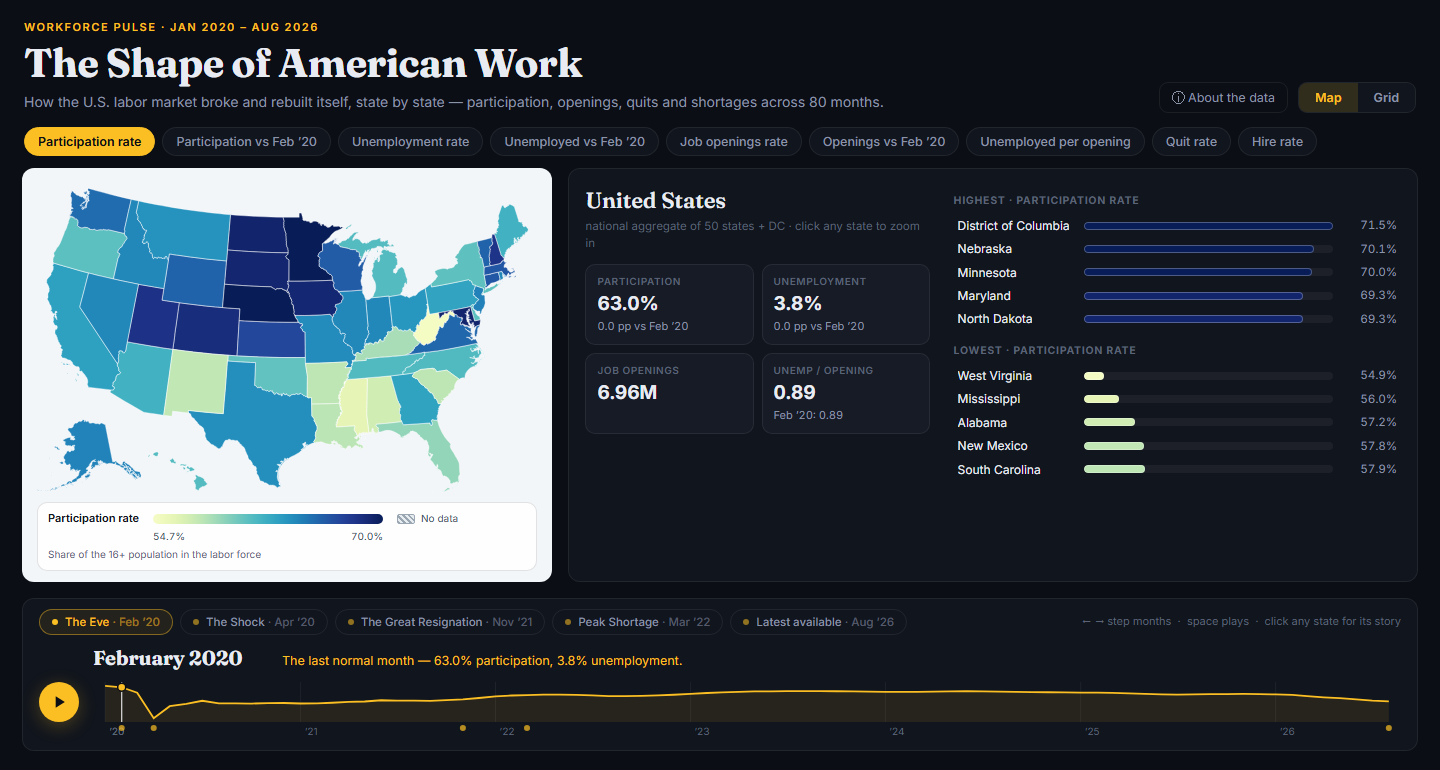
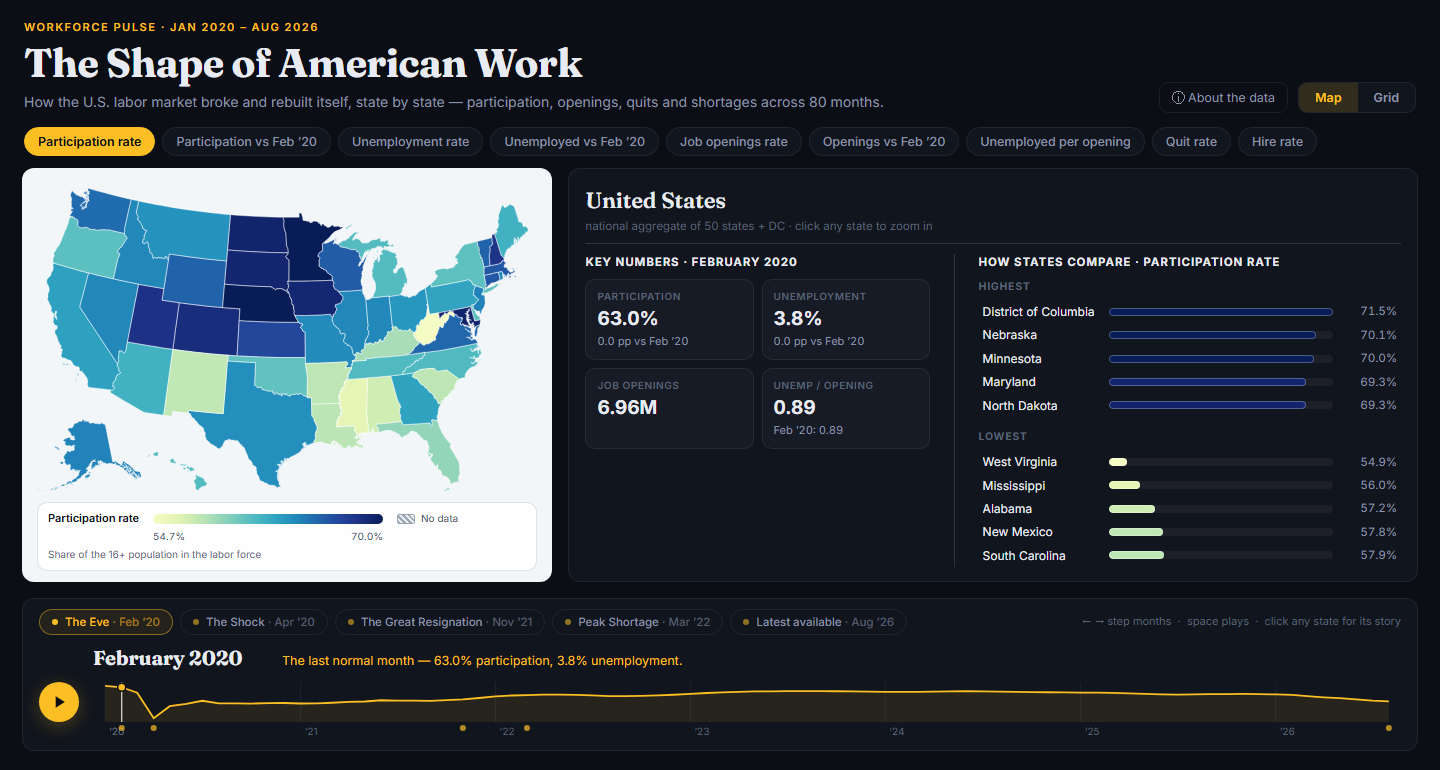
Title and divide the side panel's key numbers and charts
The stat cards and the lists or charts beside them ran together in one
dark panel. Now:

- The place name and its subtitle (and a state's rank) span the panel
  above a divider line.
- The stat cards sit under "Key numbers" with the month shown.
- The ranking bars sit under "How states compare" with the metric, split
  into Highest and Lowest; a state's charts sit under "Trends" with the
  date range.
- A vertical divider separates the two areas on wide screens; stacked
  layouts use a horizontal one.

Spacing is tightened so the panel stays within the map's height at 1440px
and wider, keeping the page within the window.

Changed region(s): [[0.6562, 0.2494, 0.9688, 0.7481], [0.4062, 0.3117, 0.625, 0.561]]

diff --git a/js/components/panel.js b/js/components/panel.js
@@ -4,7 +4,7 @@
    The DOM skeleton is rebuilt only when the selection changes; everything
    else (numbers, bars, cursors) updates in place. */
 
-import { FMT, fin, metricById } from '../config.js';
+import { FMT, fin, fmtMonth, fmtMonYr, metricById } from '../config.js';
 
 /* sparkline catalogue (state mode) */
 const SPARKS = [
@@ -35,36 +35,46 @@ export function createPanel(data, store, actions) {
       ${statCard('open', 'Job openings')}${statCard('awr', 'Unemp / opening')}
     </div>`;
 
+  const keyNumbers = `
+    <section class="panel-main">
+      <h3 class="panel-title" id="keyTitle"></h3>
+      ${statGrid}
+    </section>`;
+
   function build(s) {
     sparks = [];
-    /* panel-main holds the summary, panel-side the lists or charts; wide layouts
-       show them side by side, narrow ones stack them. */
+    /* panel-head names the place across the full width; below it, panel-main holds
+       the key numbers and panel-side the lists or charts, each under its own title.
+       Wide layouts show the two side by side, narrow ones stack them. */
     if (!s.selected) {
       panel.html(`
-        <div class="panel-main">
+        <div class="panel-head">
           <h2>United States</h2>
           <div class="panel-sub">national aggregate of 50 states + DC · click any state to zoom in</div>
-          ${statGrid}
         </div>
-        <div class="panel-side rk-section">
-          <div class="rk-title" id="rk-hi-title"></div><div id="rk-hi"></div>
-          <div class="rk-title" id="rk-lo-title"></div><div id="rk-lo"></div>
-        </div>`);
+        ${keyNumbers}
+        <section class="panel-side rk-section">
+          <h3 class="panel-title" id="rk-title"></h3>
+          <div class="rk-title">Highest</div><div id="rk-hi"></div>
+          <div class="rk-title">Lowest</div><div id="rk-lo"></div>
+        </section>`);
       return;
     }
 
     const st = data.byState.get(s.selected);
+    const [first, last] = [data.periods[0], data.periods[data.N - 1]];
     panel.html(`
-      <div class="panel-main">
+      <div class="panel-head">
         <h2>${st.name}<button class="close-x" id="closeSel" title="Back to national view">✕</button></h2>
         <div class="panel-sub">vs the national picture · click charts to scrub time</div>
         <div class="rank-chip" id="rankChip"></div>
-        ${statGrid}
       </div>
-      <div class="panel-side">
+      ${keyNumbers}
+      <section class="panel-side">
+        <h3 class="panel-title">Trends · ${fmtMonYr(first)} – ${fmtMonYr(last)}</h3>
         <div class="spark-legend"><i style="background:#67e8f9"></i>${st.abbr}<i style="background:#8b93a7"></i>US</div>
         <div id="sparks"></div>
-      </div>`);
+      </section>`);
     d3.select('#closeSel').on('click', () => actions.select(null));
     buildSparks(st);
   }
@@ -131,6 +141,7 @@ export function createPanel(data, store, actions) {
     const i = s.idx;
     const src = s.selected ? data.byState.get(s.selected).vals : data.national;
 
+    document.getElementById('keyTitle').textContent = `Key numbers · ${fmtMonth(data.periods[i])}`;
     setStat('lfpr', FMT.pct1(src.lfpr[i]), delta(src.lfpr, i, FMT.pp, false));
     setStat('ur', FMT.pct1(src.ur[i]), delta(src.ur, i, FMT.pp, true));
     setStat('open', FMT.k(src.open[i]),
@@ -187,8 +198,7 @@ export function createPanel(data, store, actions) {
   function renderRankLists(s) {
     const m = metricById(s.metricId);
     const list = ranked(m, s.idx);
-    d3.select('#rk-hi-title').text(`Highest · ${m.label}`);
-    d3.select('#rk-lo-title').text(`Lowest · ${m.label}`);
+    d3.select('#rk-title').text(`How states compare · ${m.label}`);
 
     const ext = list.length ? [list[list.length - 1].v, list[0].v] : [0, 1];
     const w = d3.scaleLinear().domain([Math.min(...ext), Math.max(...ext)]).range([8, 100]);

diff --git a/styles.css b/styles.css
@@ -4,6 +4,7 @@
   --bg2: #11151d;
   --bg3: #161b26;
   --line: rgba(255, 255, 255, 0.07);
+  --divider: rgba(255, 255, 255, 0.14);
   --text: #e8ebf1;
   --muted: #8b93a7;
   --faint: #5b6377;
@@ -242,6 +243,21 @@ main {
 #panel .close-x { color: var(--faint); font-size: 15px; padding: 2px 7px; border-radius: 7px; }
 #panel .close-x:hover { color: var(--text); background: var(--bg3); }
 
+/* the place name spans the panel; the key numbers and the lists or charts below it
+   each get a title, and a divider keeps the two areas apart */
+#panel .panel-head { padding-bottom: 8px; margin-bottom: 10px; border-bottom: 1px solid var(--divider); }
+#panel .panel-head .panel-sub { margin-bottom: 0; }
+#panel .panel-head .rank-chip { margin: 8px 0 0; }
+.panel-title {
+  font-size: 11.5px;
+  font-weight: 700;
+  letter-spacing: 0.08em;
+  text-transform: uppercase;
+  color: var(--text);
+  margin: 0 0 8px;
+}
+.panel-side { border-top: 1px solid var(--divider); margin-top: 14px; padding-top: 12px; }
+
 .rank-chip {
   display: inline-block;
   font-size: 11px;
@@ -294,6 +310,7 @@ main {
 /* national mode lists */
 .rk-section { margin-top: 4px; }
 .rk-title { font-size: 10.5px; font-weight: 700; letter-spacing: 0.07em; text-transform: uppercase; color: var(--faint); margin: 12px 0 6px; }
+.panel-title + .rk-title { margin-top: 0; }
 .rk-row {
   display: flex;
   align-items: center;
@@ -493,7 +510,8 @@ main {
   #legend .lg-nodata { grid-column: 3; grid-row: 1; margin: 0; }
   #legend .lg-note { grid-column: 1 / -1; grid-row: 3; margin: 2px 0 0; max-width: none; }
   #panel { flex: 1 1 0; width: auto; max-height: none; display: grid; grid-template-columns: minmax(250px, 1fr) minmax(0, 1.3fr); column-gap: 24px; align-content: start; }
-  #panel .rk-section > .rk-title:first-child { margin-top: 4px; }
+  #panel .panel-head { grid-column: 1 / -1; }
+  .panel-side { border-top: 0; margin-top: 0; padding-top: 0; border-left: 1px solid var(--divider); padding-left: 24px; }
   #sparks { display: grid; grid-template-columns: 1fr 1fr; column-gap: 16px; }
   #timelineWrap { display: grid; grid-template-columns: 1fr auto; column-gap: 16px; align-items: start; }
   #chapters { grid-column: 1; grid-row: 1; }

diff --git a/index.html b/index.html
@@ -8,7 +8,7 @@
 <link rel="preconnect" href="https://fonts.googleapis.com">
 <link rel="preconnect" href="https://fonts.gstatic.com" crossorigin>
 <link href="https://fonts.googleapis.com/css2?family=Fraunces:opsz,wght@9..144,600;9..144,700&family=Inter:wght@400;500;600;700&display=swap" rel="stylesheet">
-<link rel="stylesheet" href="styles.css?v=20260927-fit">
+<link rel="stylesheet" href="styles.css?v=20260927-titles">
 </head>
 <body>
 
@@ -105,6 +105,6 @@ if (location.protocol === 'file:') {
 </script>
 <script src="https://cdn.jsdelivr.net/npm/d3@7"></script>
 <script src="https://cdn.jsdelivr.net/npm/topojson-client@3"></script>
-<script type="module" src="js/main.js?v=20260927-fit"></script>
+<script type="module" src="js/main.js?v=20260927-titles"></script>
 </body>
 </html>

diff --git a/js/main.js b/js/main.js
@@ -14,7 +14,7 @@ import { createTooltip } from './components/tooltip.js?v=20260926-oct';
 import { createMap } from './components/map.js?v=20260927-fit';
 import { createTimeline } from './components/timeline.js?v=20260927-fit';
 import { createChapters } from './components/chapters.js';
-import { createPanel } from './components/panel.js?v=20260927-fit';
+import { createPanel } from './components/panel.js?v=20260927-titles';
 
 async function boot() {
   let data;
